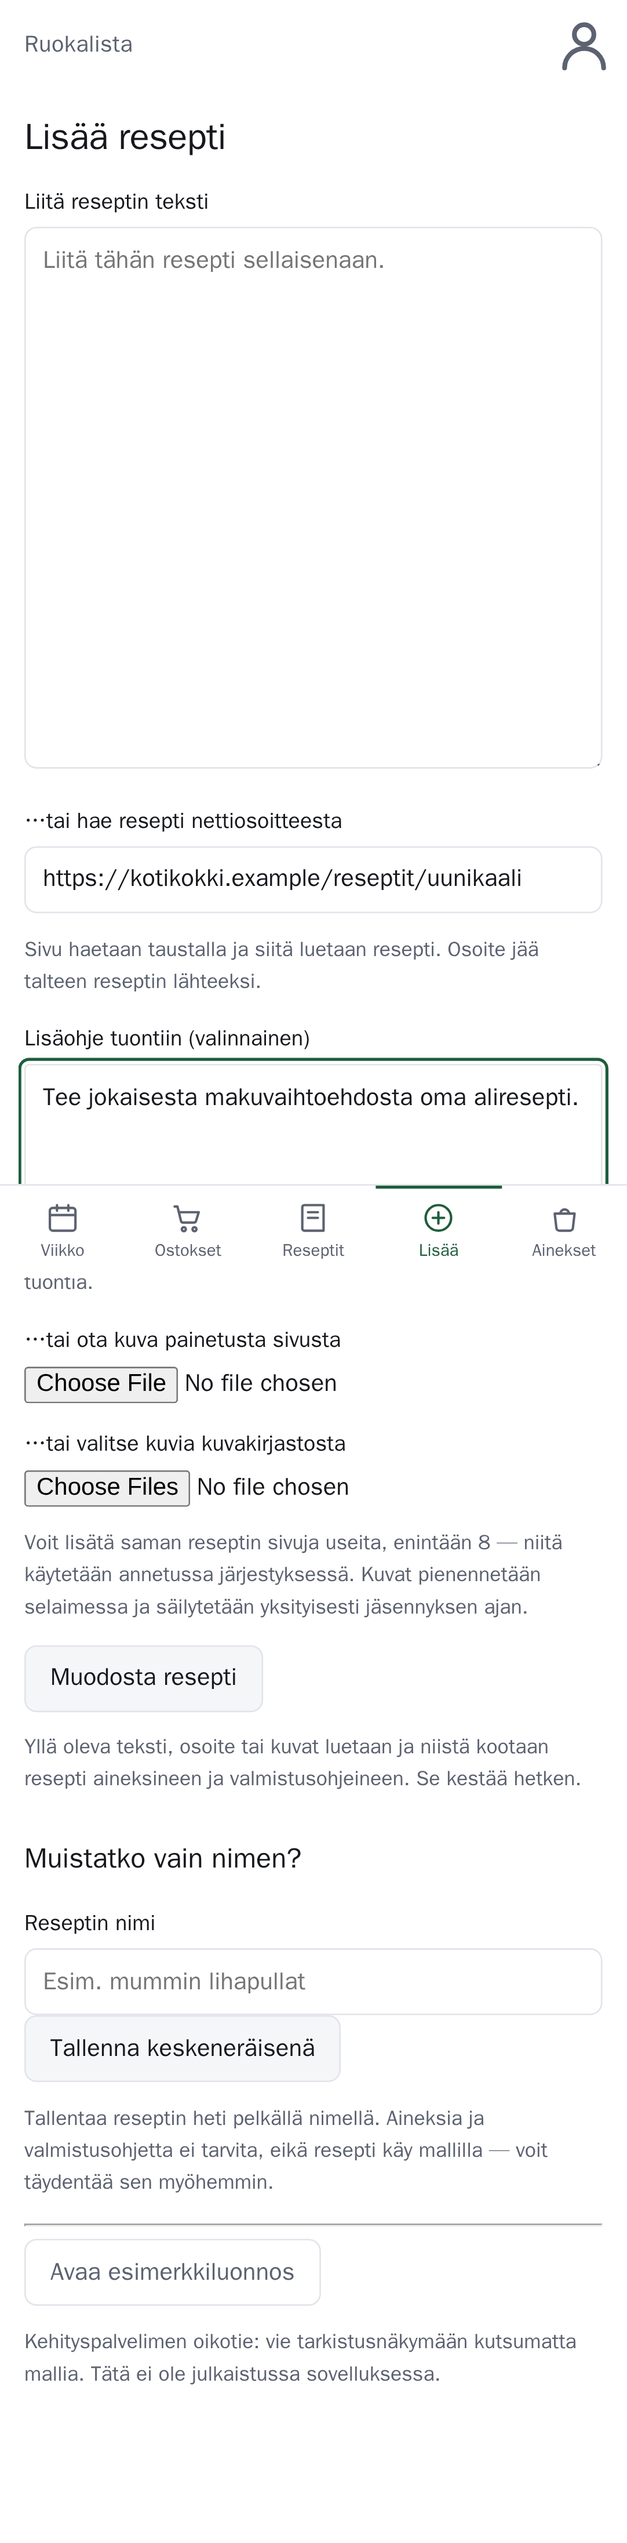
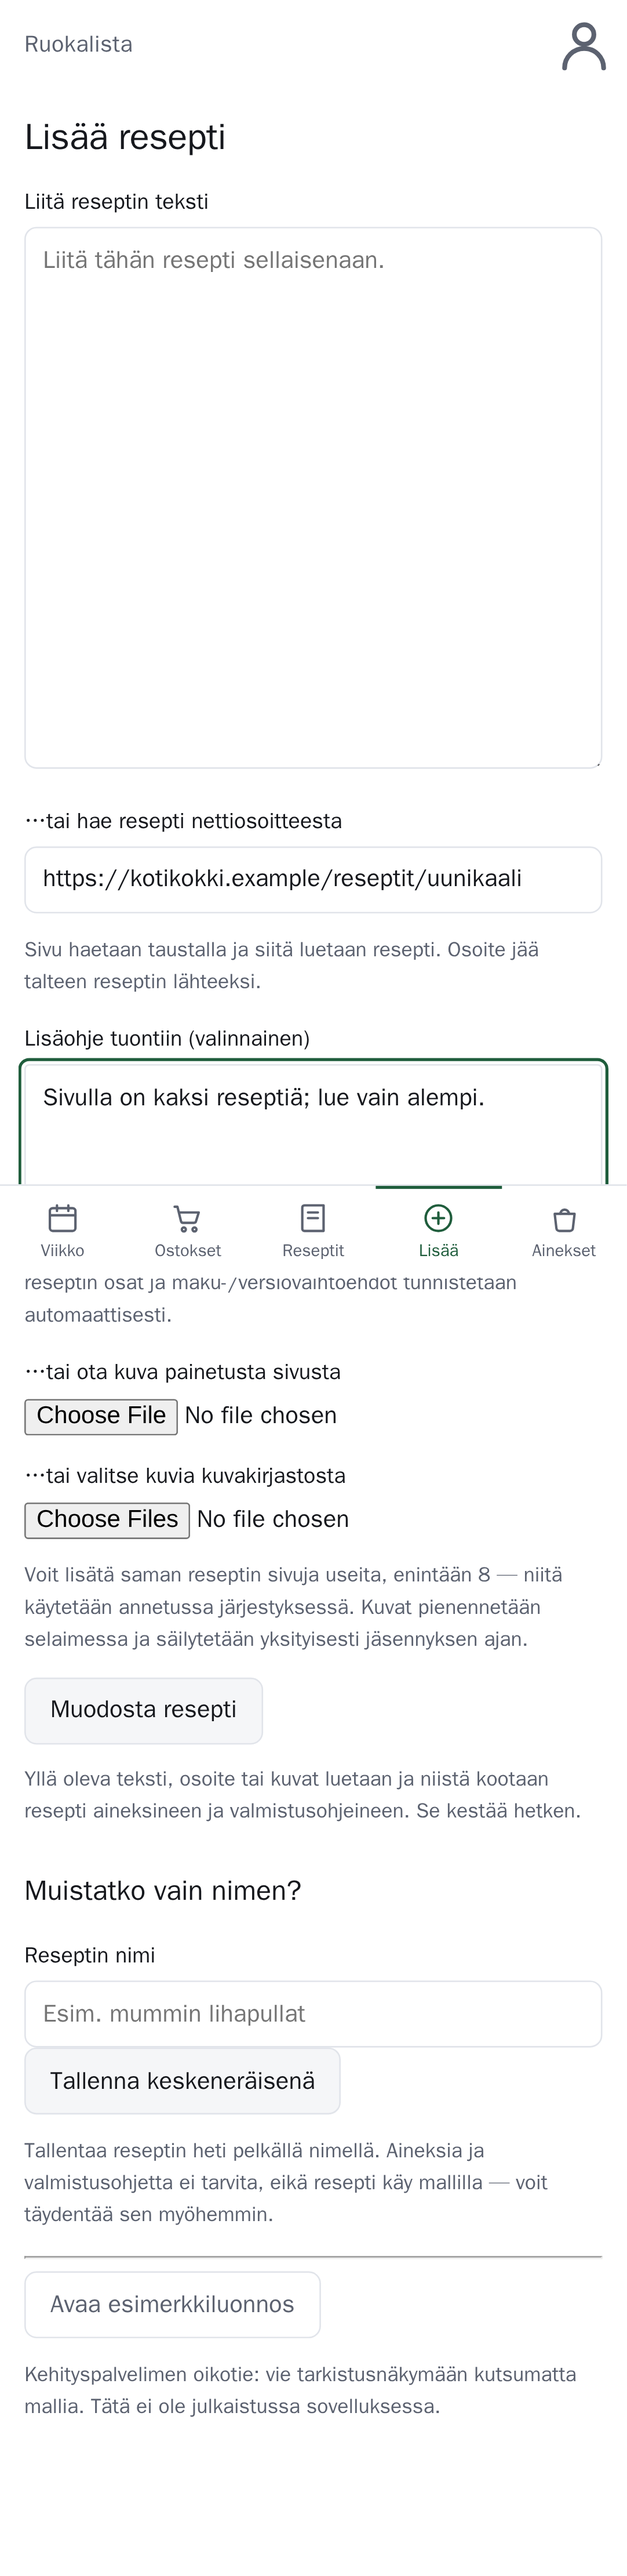
Say what the extra import instruction is for (#225)
The placeholder asked the member to request each flavor variant as its own
sub-recipe — which the default prompt already does since #219. It taught a
redundant instruction and hid what the field is really for.

Drop the placeholder rather than swap in another example, and say in the helper
text that the field only sharpens how a page is read: clear recipe parts and
flavor or version options are recognised on their own. The fixtures and specs
that typed the redundant sentence now type a genuine exception instead.

diff --git a/tests/screenshots.spec.ts b/tests/screenshots.spec.ts
@@ -779,10 +779,16 @@ test.describe("signed in", () => {
       .fill("https://kotikokki.example/reseptit/uunikaali");
     await page
       .getByLabel("Lisäohje tuontiin (valinnainen)")
-      .fill("Tee jokaisesta makuvaihtoehdosta oma aliresepti.");
+      .fill("Sivulla on kaksi reseptiä; lue vain alempi.");
     await expect(
       page.getByLabel("Lisäohje tuontiin (valinnainen)"),
     ).toBeVisible();
+    // The helper text is the point of the picture: the field is a clarification
+    // for an unusual page, not where a member asks for the default reading.
+    await expect(page.locator("#guidance-help")).toHaveText(
+      "Käytä tätä vain, jos haluat tarkentaa sivun tulkintaa. Selkeät reseptin " +
+        "osat ja maku-/versiovaihtoehdot tunnistetaan automaattisesti.",
+    );
     await capture(page, {
       path: `${SHOTS}/79-intake-from-link.png`,
       fullPage: true,

diff --git a/tests/intake.spec.ts b/tests/intake.spec.ts
@@ -276,12 +276,12 @@ test("optional guidance follows a web address into its queued import", async ({
     .getByLabel("…tai hae resepti nettiosoitteesta")
     .fill("https://www.kinuskikissa.fi/valipalapatukat");
   await expect(guidance).toBeVisible();
-  await guidance.fill("Tee jokaisesta makuvaihtoehdosta oma aliresepti.");
+  await guidance.fill("Sivulla on kaksi reseptiä; lue vain alempi.");
   await page.getByRole("button", { name: "Muodosta resepti" }).click();
 
   expect(calls).toHaveLength(1);
   expect(calls[0]?.body.guidance).toBe(
-    "Tee jokaisesta makuvaihtoehdosta oma aliresepti.",
+    "Sivulla on kaksi reseptiä; lue vain alempi.",
   );
   await expect(page.getByRole("heading", { name: "Tarkista resepti" })).toBeVisible();
   await expect(page.getByRole("heading", { name: "Appelsiini-kaakao" })).toBeVisible();

diff --git a/dev/check-intake-jobs.ts b/dev/check-intake-jobs.ts
@@ -268,7 +268,7 @@ test("a linked job reads its page in the consumer, not in the request", async ()
     source_route: "linked",
     source_text: null,
     source_url: "https://kotikokki.example/uunikaali",
-    import_guidance: "Tee jokaisesta makuvaihtoehdosta oma aliresepti.",
+    import_guidance: "Sivulla on kaksi reseptiä; lue vain alempi.",
   });
   const server = pageServer(RECIPE_PAGE);
 
@@ -283,7 +283,7 @@ test("a linked job reads its page in the consumer, not in the request", async ()
         assert.match(source.text, /valkokaalia/);
         assert.equal(
           source.guidance,
-          "Tee jokaisesta makuvaihtoehdosta oma aliresepti.",
+          "Sivulla on kaksi reseptiä; lue vain alempi.",
         );
       }
       return JSON.stringify(SAMPLE_DRAFT);

diff --git a/dev/check-intake-images.ts b/dev/check-intake-images.ts
@@ -51,7 +51,7 @@ test("linked guidance is a separate instruction, not source text", () => {
     route: "linked",
     url: "https://example.test/resepti",
     text: "Välipalapatukat\n100 g pähkinöitä",
-    guidance: "Tee jokaisesta makuvaihtoehdosta oma aliresepti.",
+    guidance: "Sivulla on kaksi reseptiä; lue vain alempi.",
   };
 
   assert.deepEqual(contentOf(source), [
@@ -60,7 +60,7 @@ test("linked guidance is a separate instruction, not source text", () => {
       type: "text",
       text:
         "Käyttäjän lisäohje tuontiin:\n" +
-        "Tee jokaisesta makuvaihtoehdosta oma aliresepti.",
+        "Sivulla on kaksi reseptiä; lue vain alempi.",
     },
   ]);
   assert.match(systemOf(source), /noudata sitä ensisijaisena tulkintaohjeena/);

diff --git a/src/intake-screens.ts b/src/intake-screens.ts
@@ -587,10 +587,10 @@ function intakeForm(
           rows="3"
           maxlength="${MAX_IMPORT_GUIDANCE}"
           aria-describedby="guidance-help"
-          placeholder="Esim. Tee jokaisesta makuvaihtoehdosta oma aliresepti."
         ></textarea>
         <p class="empty" id="guidance-help">
-          Käytetään vain nettiosoitteen tulkintaan. Tyhjä kenttä ei muuta tuontia.
+          Käytä tätä vain, jos haluat tarkentaa sivun tulkintaa. Selkeät reseptin
+          osat ja maku-/versiovaihtoehdot tunnistetaan automaattisesti.
         </p>
       </div>
 
